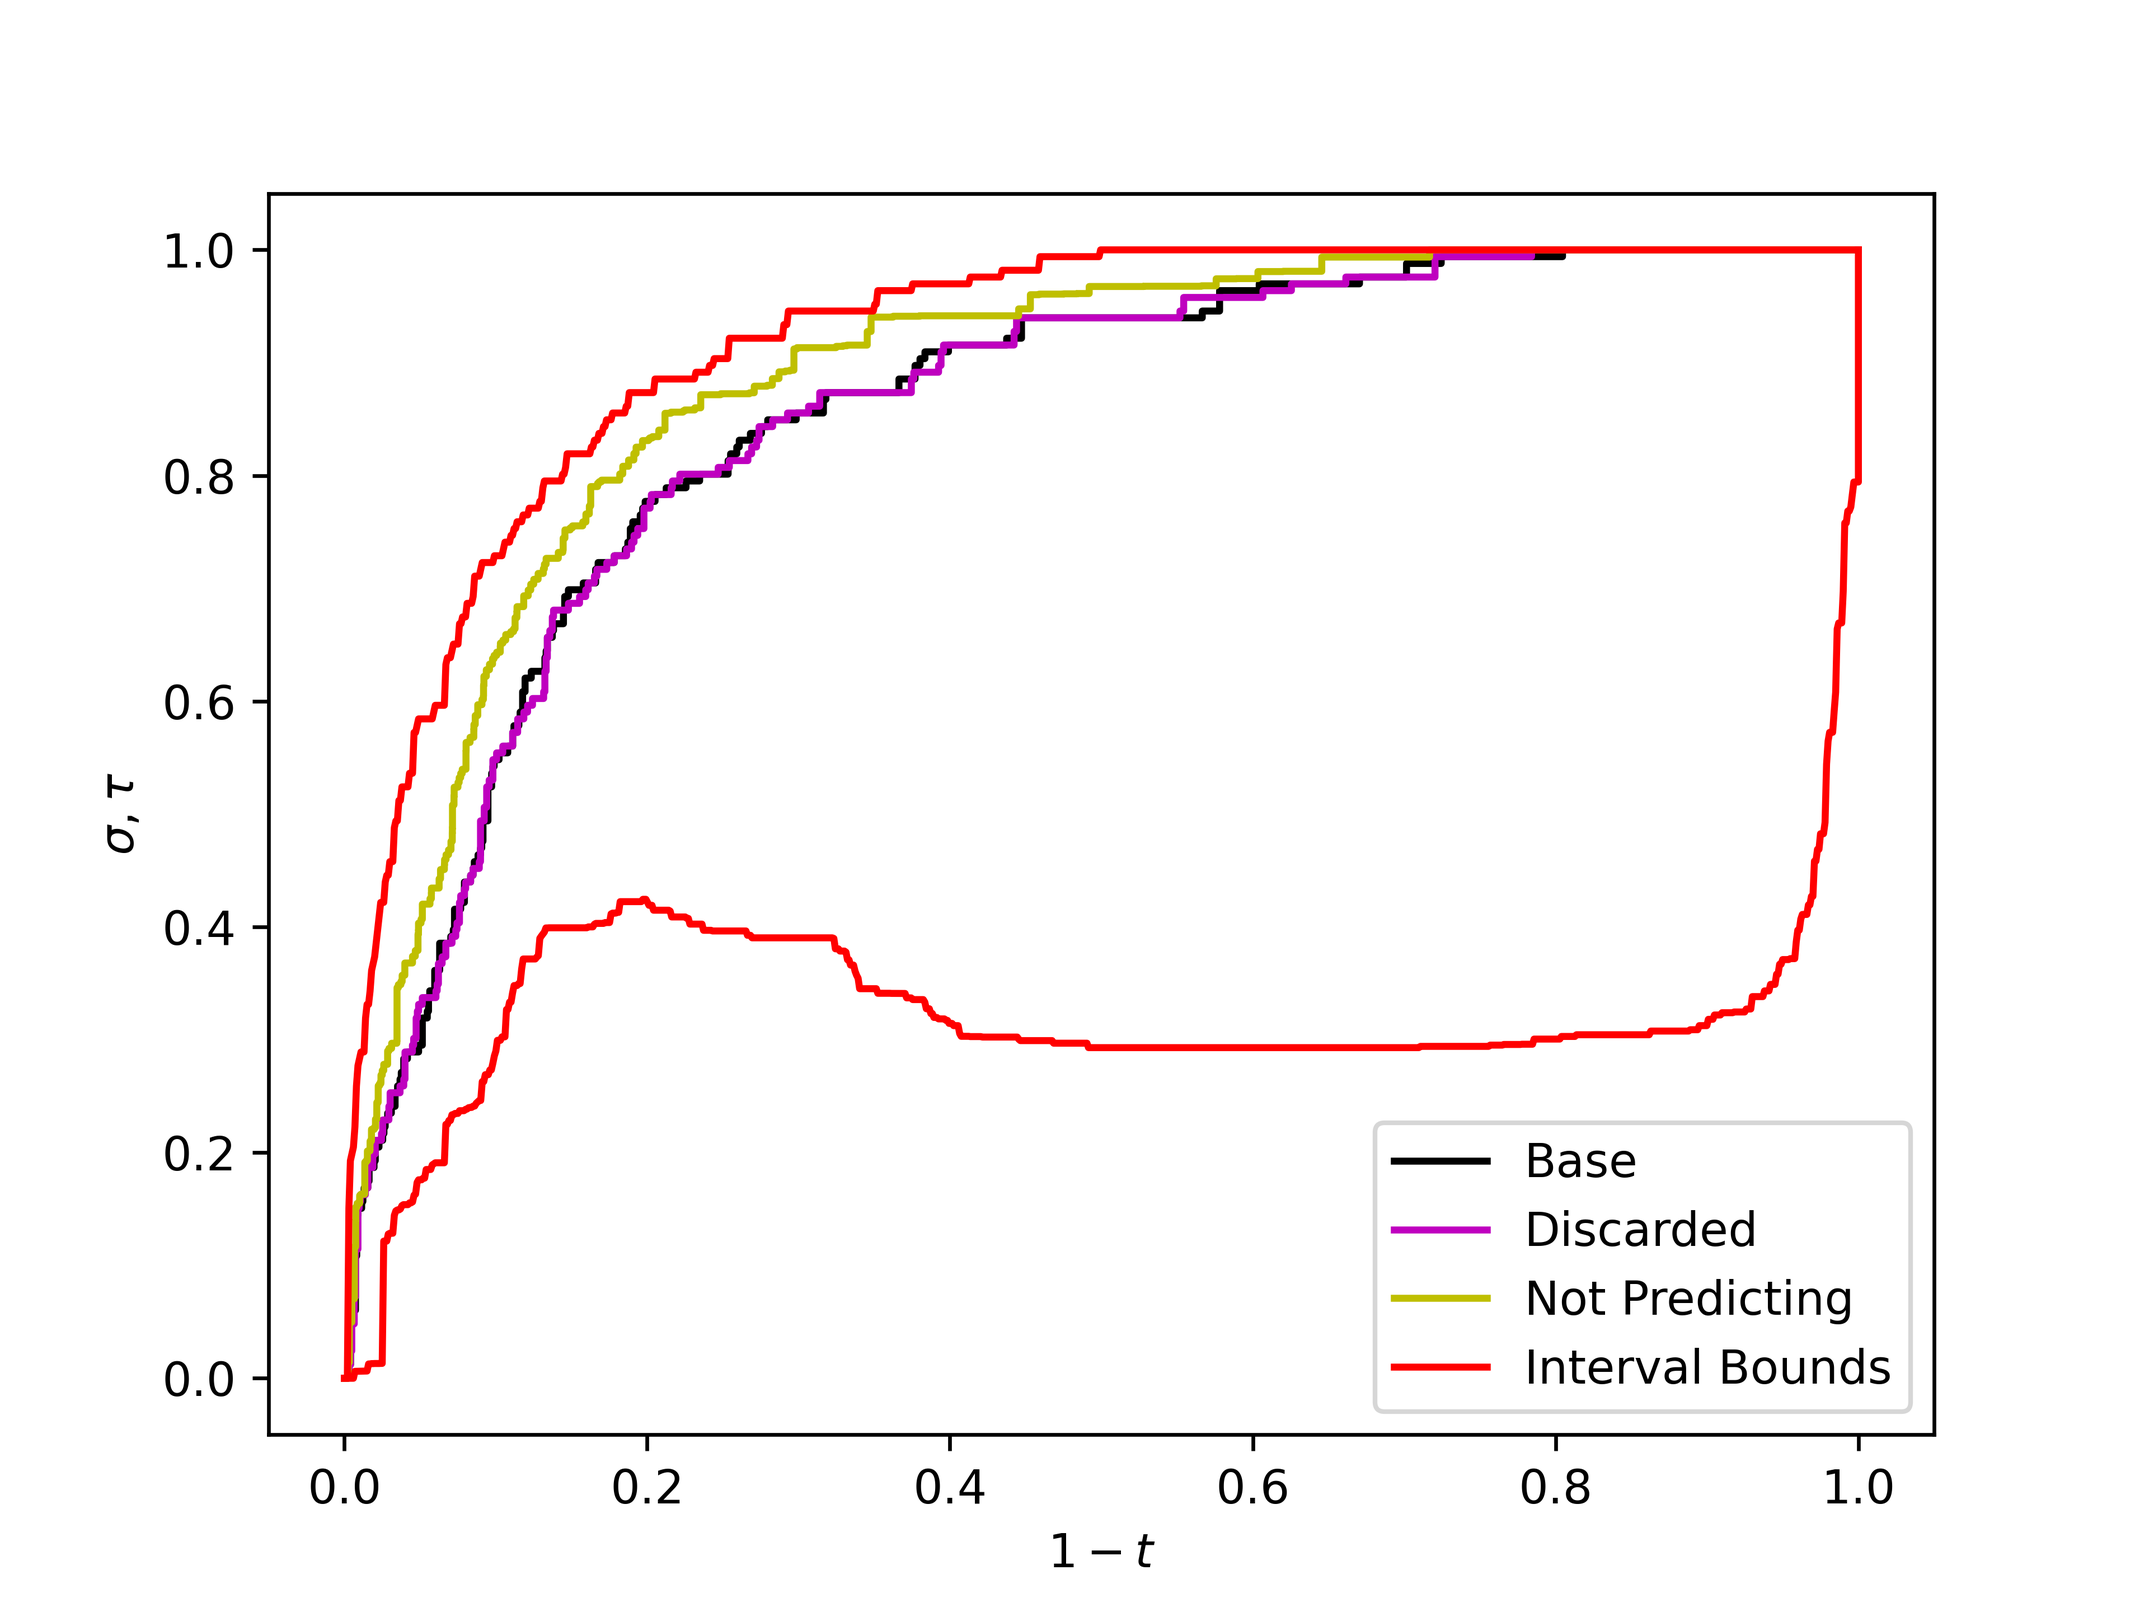
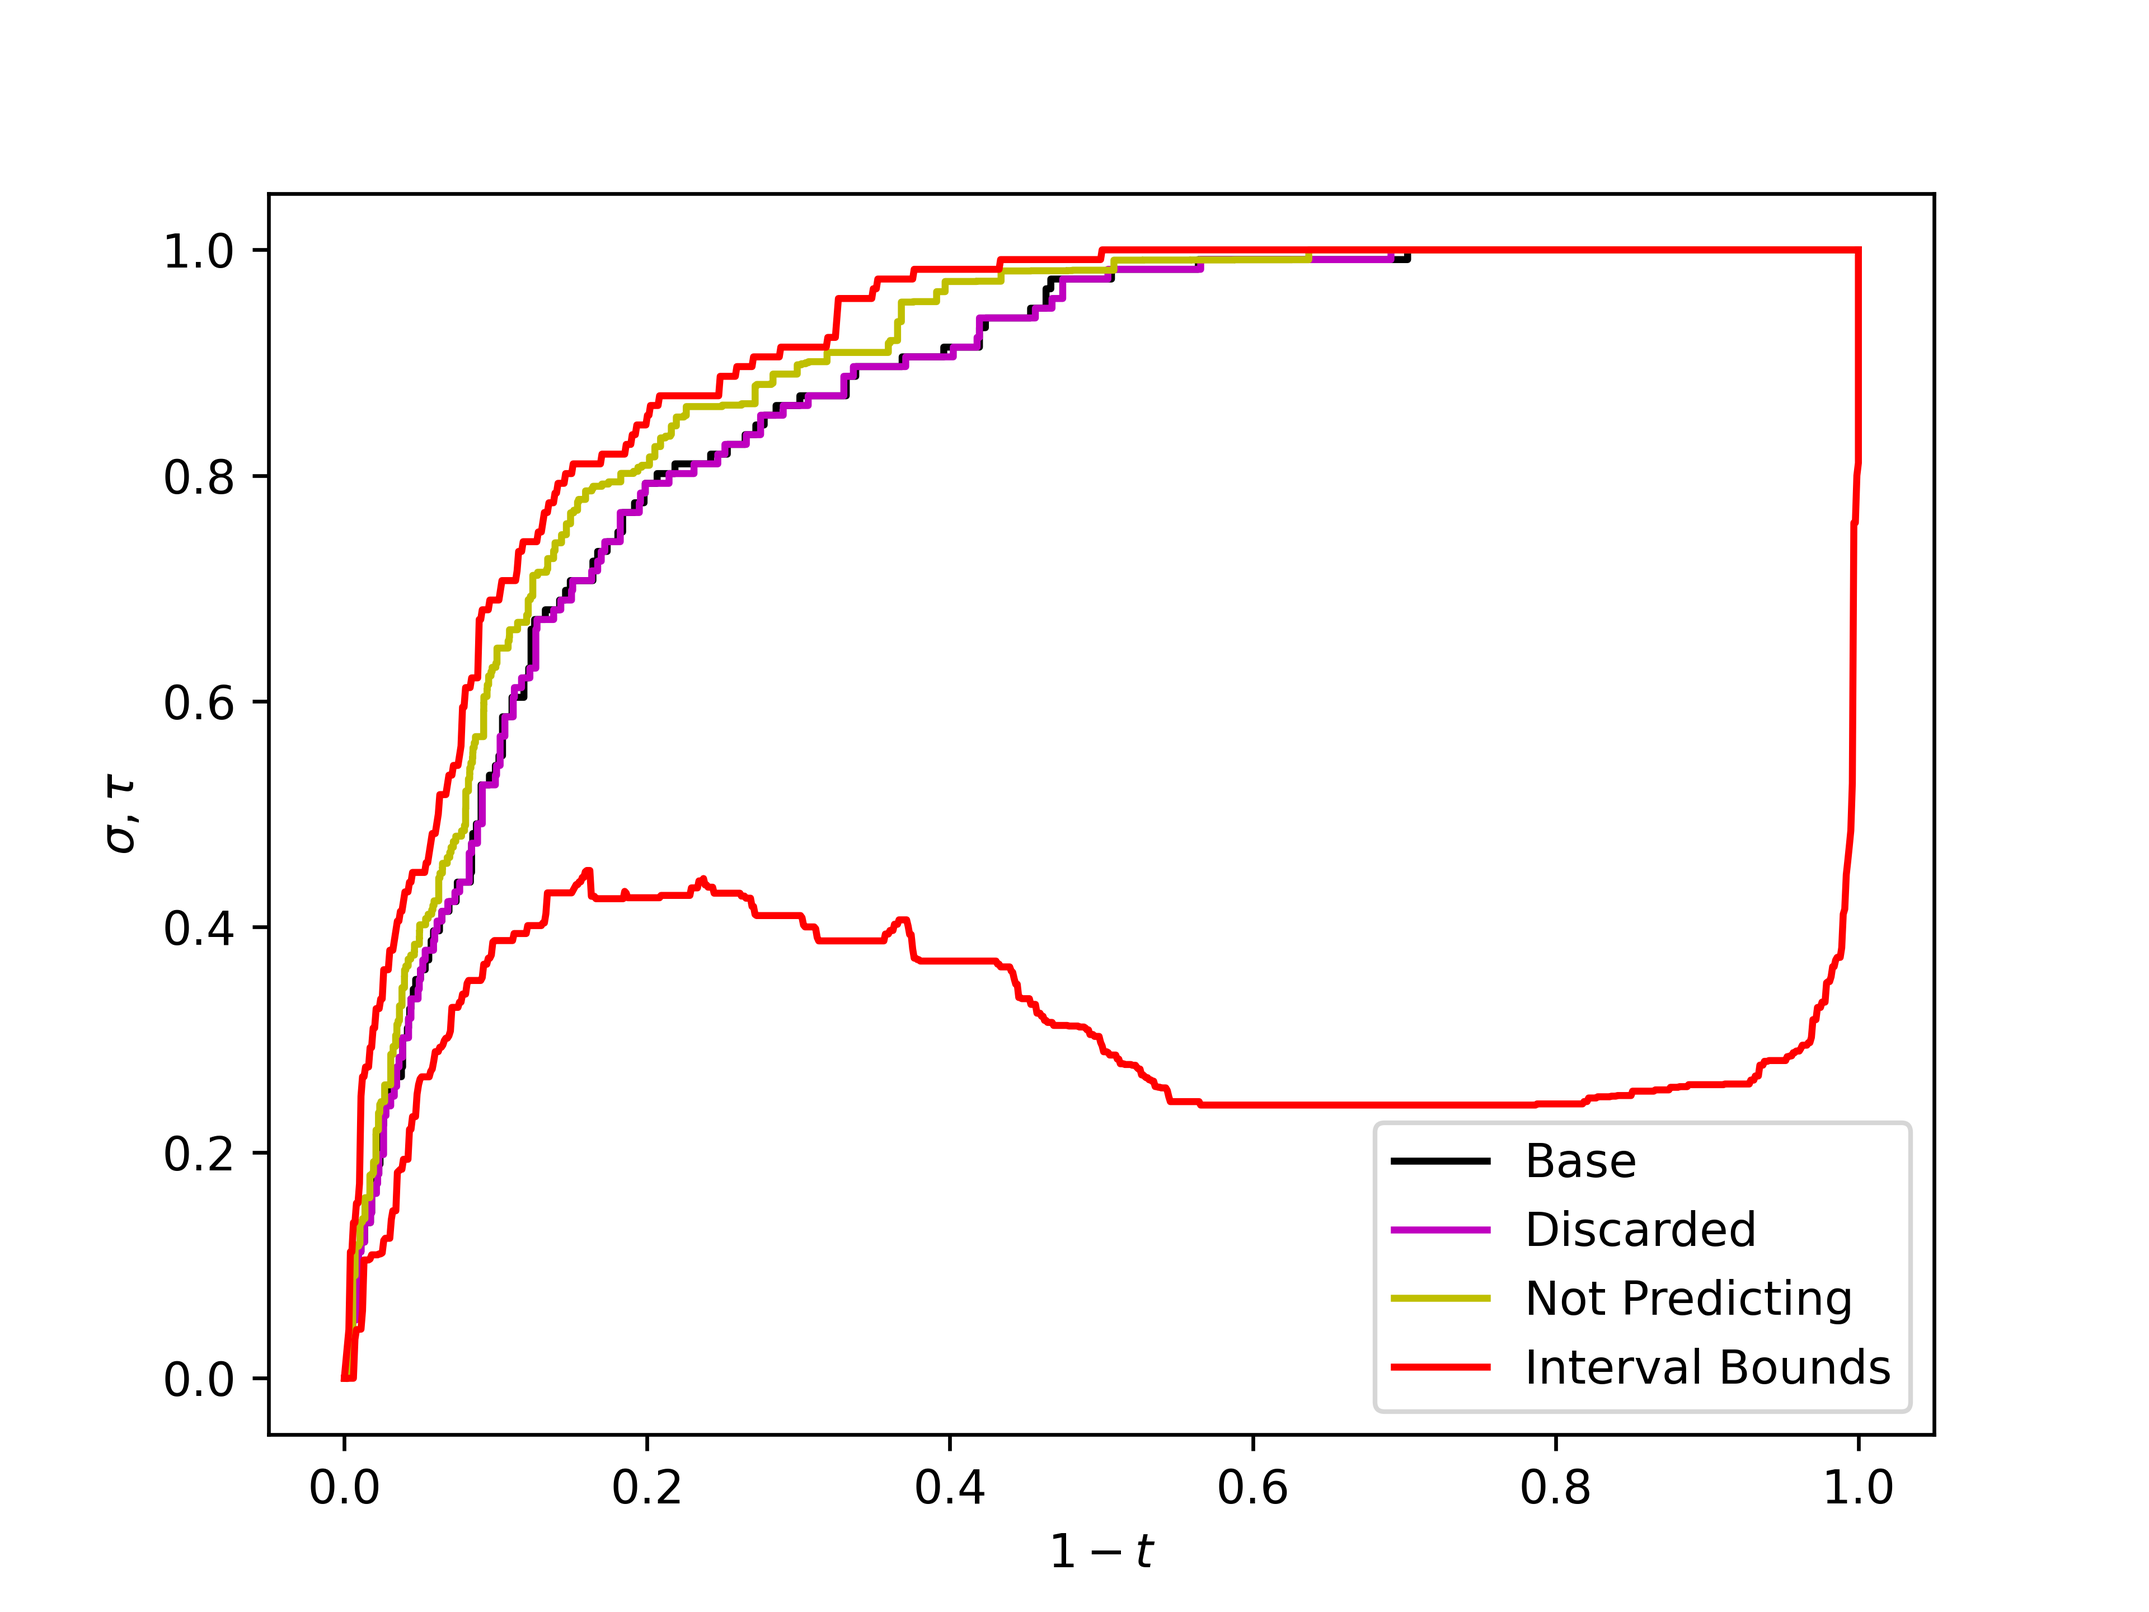
22FEB.02

Changed region(s): [[0.1562, 0.1562, 0.875, 0.875]]

diff --git a/redwine.py b/redwine.py
@@ -115,83 +115,83 @@ with open('runinfo/redwine_cm.out','w') as f:
     print('Specificity = %.3f' %(ttt),file = f)
 
 ### ROC CURVE
-# s,fpr = ROC(model = base, data = test_data, results = test_results)
-# nuq_s,nuq_fpr = ROC(model = nuq, data = test_data, results = test_results)
-# s_t, fpr_t, Sigma, Tau, Nu = UQ_ROC_alt(uq_models, test_data, test_results)
+s,fpr = ROC(model = base, data = test_data, results = test_results)
+nuq_s,nuq_fpr = ROC(model = nuq, data = test_data, results = test_results)
+s_t, fpr_t, Sigma, Tau, Nu = UQ_ROC_alt(uq_models, test_data, test_results)
 
-# s_i, fpr_i = UQ_ROC(uq_models, test_data, test_results)
+s_i, fpr_i = UQ_ROC(uq_models, test_data, test_results)
 
-# steps = 1000
-# X = np.linspace(0,1,steps)
-# Ymin = steps*[2]
-# Ymax = steps*[-1]
+steps = 1000
+X = np.linspace(0,1,steps)
+Ymin = steps*[2]
+Ymax = steps*[-1]
 
-# for i, x in tqdm(enumerate(X)):
-#     for k,j in zip(s_i,fpr_i):
+for i, x in tqdm(enumerate(X)):
+    for k,j in zip(s_i,fpr_i):
 
-#         if j.straddles(x,endpoints = True):
-#             Ymin[i] = min((Ymin[i],k.Left))
-#             Ymax[i] = max((Ymax[i],k.Right))
+        if j.straddles(x,endpoints = True):
+            Ymin[i] = min((Ymin[i],k.Left))
+            Ymax[i] = max((Ymax[i],k.Right))
 
-# Xmax = [0]+[x for i,x in enumerate(X) if Ymax[i] != -1]+[1]
-# Xmin = [0]+[x for i,x in enumerate(X) if Ymin[i] != 2]+[1]
-# Ymax = [0]+[y for i,y in enumerate(Ymax) if Ymax[i] != -1]+[1]
-# Ymin = [0]+[y for i,y in enumerate(Ymin) if Ymin[i] != 2]+[1]
+Xmax = [0]+[x for i,x in enumerate(X) if Ymax[i] != -1]+[1]
+Xmin = [0]+[x for i,x in enumerate(X) if Ymin[i] != 2]+[1]
+Ymax = [0]+[y for i,y in enumerate(Ymax) if Ymax[i] != -1]+[1]
+Ymin = [0]+[y for i,y in enumerate(Ymin) if Ymin[i] != 2]+[1]
 
-# auc_int_min = sum([(Xmin[i]-Xmin[i-1])*Ymin[i] for i in range(1,len(Xmin))])
-# auc_int_max = sum([(Xmax[i]-Xmax[i-1])*Ymax[i] for i in range(1,len(Xmin))])
+auc_int_min = sum([(Xmin[i]-Xmin[i-1])*Ymin[i] for i in range(1,len(Xmin))])
+auc_int_max = sum([(Xmax[i]-Xmax[i-1])*Ymax[i] for i in range(1,len(Xmin))])
    
-# plt.xlabel('$1-t$')
-# plt.ylabel('$s$')
-# plt.ylabel('$\\sigma,\\tau$')
+plt.xlabel('$1-t$')
+plt.ylabel('$s$')
+plt.ylabel('$\\sigma,\\tau$')
 
-# plt.step(fpr,s,'k', label = 'Base')
-# plt.step(nuq_fpr,nuq_s,'m', label = 'Discarded')
-# plt.step(fpr_t,s_t,'y', label = 'Not Predicting')
-# plt.plot(Xmax,Ymax,'r',label = 'Interval Bounds')
-# plt.plot(Xmin,Ymin,'r')
+plt.step(fpr,s,'k', label = 'Base')
+plt.step(nuq_fpr,nuq_s,'m', label = 'Discarded')
+plt.step(fpr_t,s_t,'y', label = 'Not Predicting')
+plt.plot(Xmax,Ymax,'r',label = 'Interval Bounds')
+plt.plot(Xmin,Ymin,'r')
 
-# plt.legend()
+plt.legend()
 
-# plt.savefig('figs/redwine_ROC.png',dpi = 600)
-# plt.savefig('../paper/figs/redwine_ROC.png',dpi = 600)
-# # plt.clf()
+plt.savefig('figs/redwine_ROC.png',dpi = 600)
+plt.savefig('../paper/figs/redwine_ROC.png',dpi = 600)
+# plt.clf()
 
 
-# with open('runinfo/redwine_auc.out','w') as f:
-#     print('TRUTH: %.3f' %auc(s,fpr), file = f)
-#     print('No UQ: %.3F' %auc(nuq_s,nuq_fpr),file = f)
-#     print('THROW: %.3f' %auc(s_t,fpr_t), file = f)
-#     print('INTERVALS: [%.3f,%.3f]' %(auc_int_min,auc_int_max), file = f)
+with open('runinfo/redwine_auc.out','w') as f:
+    print('TRUTH: %.3f' %auc(s,fpr), file = f)
+    print('No UQ: %.3F' %auc(nuq_s,nuq_fpr),file = f)
+    print('THROW: %.3f' %auc(s_t,fpr_t), file = f)
+    print('INTERVALS: [%.3f,%.3f]' %(auc_int_min,auc_int_max), file = f)
     
 
-# fig = plt.figure()
+fig = plt.figure()
 
-# ax = plt.axes(projection='3d',elev = 45,azim = -45,proj_type = 'ortho')
-# ax.set_xlabel('$1-t$')
-# ax.set_ylabel('$s$')
-# # ax.set_zlabel('$1-\sigma,1-\\tau$')
-# ax.plot(fpr_t,s_t,'m',alpha = 0.5)
-# ax.plot3D(fpr,s,Sigma,'b',label = '$\\sigma$')
-# ax.plot3D(fpr,s,Tau,'r',label = '$\\tau$')
-# # ax.plot3D(fpr,s,Nu,'k',label = '$1-\\nu$')
+ax = plt.axes(projection='3d',elev = 45,azim = -45,proj_type = 'ortho')
+ax.set_xlabel('$1-t$')
+ax.set_ylabel('$s$')
+# ax.set_zlabel('$1-\sigma,1-\\tau$')
+ax.plot(fpr_t,s_t,'m',alpha = 0.5)
+ax.plot3D(fpr,s,Sigma,'b',label = '$\\sigma$')
+ax.plot3D(fpr,s,Tau,'r',label = '$\\tau$')
+# ax.plot3D(fpr,s,Nu,'k',label = '$1-\\nu$')
 
-# ax.legend()
+ax.legend()
 
-# plt.savefig('figs/redwine_ROC3D.png',dpi = 600)
-# plt.savefig('../paper/figs/redwine_ROC3D.png',dpi = 600)
-# plt.clf()
+plt.savefig('figs/redwine_ROC3D.png',dpi = 600)
+plt.savefig('../paper/figs/redwine_ROC3D.png',dpi = 600)
+plt.clf()
 
-# plt.xlabel('$(1-t)$/$s$')
-# plt.ylabel('$\\sigma$/$\\tau$')
-# plt.plot(s,Sigma,'g',label = '$\\sigma$ v $s$')
-# plt.plot(fpr,Tau,'r',label = '$\\tau$ v $t$')
-# plt.legend()
+plt.xlabel('$(1-t)$/$s$')
+plt.ylabel('$\\sigma$/$\\tau$')
+plt.plot(s,Sigma,'g',label = '$\\sigma$ v $s$')
+plt.plot(fpr,Tau,'r',label = '$\\tau$ v $t$')
+plt.legend()
 
-# plt.savefig('figs/redwine_ST.png',dpi = 600)
-# plt.savefig('../paper/figs/redwine_ST.png',dpi = 600)
+plt.savefig('figs/redwine_ST.png',dpi = 600)
+plt.savefig('../paper/figs/redwine_ST.png',dpi = 600)
 
-# plt.clf()
+plt.clf()
 
 ### Hosmer-Lemeshow
 hl_b, pval_b = hosmer_lemeshow_test(base,train_data,train_results,g = 10)
@@ -199,11 +199,9 @@ hl_b, pval_b = hosmer_lemeshow_test(base,train_data,train_results,g = 10)
 hl_nuq, pval_nuq = hosmer_lemeshow_test(nuq,train_data,train_results,g = 10)
 
 hl_uq, pval_uq = UQ_hosmer_lemeshow_test(uq_models,train_data,train_results,g = 10)
-bounds = zip([(hosmer_lemeshow_test(m,train_data,train_results,g = 10)) for k,m in uq_models.items()])
-          
+
 with open('runinfo/redwine_HL.out','w') as f:
     print('base\nhl = %.3f, p = %.3f' %(hl_b,pval_b),file = f)
     print('no UQ\nhl = %.3f, p = %.3f' %(hl_nuq,pval_nuq),file = f) 
     print('UQ\nhl = [%.3f,%.3f], p = [%.3f,%.3f]' %(*hl_uq,*pval_uq),file = f)
-    print('UQ2\nhl = [%.3f,%.3f], p = [%.3f,%.3f]' %(min(bounds[0]),max(bounds[0]),min(bounds[1]),max(bounds[1])),file = f)
     

diff --git a/whitewine.py b/whitewine.py
@@ -161,86 +161,86 @@ with open('runinfo/whitewine_cm.out','w') as f:
     print('Specificity = %.3f' %(ttt),file = f)
 
 
-# ### ROC CURVE
-# s,fpr = ROC(model = base, data = test_data, results = test_results)
-# nuq_s,nuq_fpr = ROC(model = nuq, data = test_data, results = test_results)
-# s_t, fpr_t, Sigma, Tau, Nu = UQ_ROC_alt(uq_models, test_data, test_results)
+### ROC CURVE
+s,fpr = ROC(model = base, data = test_data, results = test_results)
+nuq_s,nuq_fpr = ROC(model = nuq, data = test_data, results = test_results)
+s_t, fpr_t, Sigma, Tau, Nu = UQ_ROC_alt(uq_models, test_data, test_results)
 
-# s_i, fpr_i = UQ_ROC(uq_models, test_data, test_results)
+s_i, fpr_i = UQ_ROC(uq_models, test_data, test_results)
 
-# steps = 1000
-# X = np.linspace(0,1,steps)
-# Ymin = steps*[2]
-# Ymax = steps*[-1]
+steps = 1000
+X = np.linspace(0,1,steps)
+Ymin = steps*[2]
+Ymax = steps*[-1]
 
-# for i, x in tqdm(enumerate(X)):
-#     for k,j in zip(s_i,fpr_i):
+for i, x in tqdm(enumerate(X)):
+    for k,j in zip(s_i,fpr_i):
 
-#         if j.straddles(x,endpoints = True):
-#             Ymin[i] = min((Ymin[i],k.Left))
-#             Ymax[i] = max((Ymax[i],k.Right))
+        if j.straddles(x,endpoints = True):
+            Ymin[i] = min((Ymin[i],k.Left))
+            Ymax[i] = max((Ymax[i],k.Right))
 
-# Xmax = [0]+[x for i,x in enumerate(X) if Ymax[i] != -1]+[1]
-# Xmin = [0]+[x for i,x in enumerate(X) if Ymin[i] != 2]+[1]
-# Ymax = [0]+[y for i,y in enumerate(Ymax) if Ymax[i] != -1]+[1]
-# Ymin = [0]+[y for i,y in enumerate(Ymin) if Ymin[i] != 2]+[1]
+Xmax = [0]+[x for i,x in enumerate(X) if Ymax[i] != -1]+[1]
+Xmin = [0]+[x for i,x in enumerate(X) if Ymin[i] != 2]+[1]
+Ymax = [0]+[y for i,y in enumerate(Ymax) if Ymax[i] != -1]+[1]
+Ymin = [0]+[y for i,y in enumerate(Ymin) if Ymin[i] != 2]+[1]
 
-# auc_int_min = sum([(Xmin[i]-Xmin[i-1])*Ymin[i] for i in range(1,len(Xmin))])
-# auc_int_max = sum([(Xmax[i]-Xmax[i-1])*Ymax[i] for i in range(1,len(Xmin))])
+auc_int_min = sum([(Xmin[i]-Xmin[i-1])*Ymin[i] for i in range(1,len(Xmin))])
+auc_int_max = sum([(Xmax[i]-Xmax[i-1])*Ymax[i] for i in range(1,len(Xmin))])
    
-# plt.xlabel('$1-t$')
-# plt.ylabel('$s$')
-# plt.ylabel('$\\sigma,\\tau$')
+plt.xlabel('$1-t$')
+plt.ylabel('$s$')
+plt.ylabel('$\\sigma,\\tau$')
 
-# plt.step(fpr,s,'k', label = 'Base')
-# plt.step(nuq_fpr,nuq_s,'m--', label = 'Discarded')
-# plt.step(fpr_t,s_t,'y', label = 'Not Predicting')
-# plt.plot(Xmax,Ymax,'r',label = 'Interval Bounds')
-# plt.plot(Xmin,Ymin,'r')
+plt.step(fpr,s,'k', label = 'Base')
+plt.step(nuq_fpr,nuq_s,'m--', label = 'Discarded')
+plt.step(fpr_t,s_t,'y', label = 'Not Predicting')
+plt.plot(Xmax,Ymax,'r',label = 'Interval Bounds')
+plt.plot(Xmin,Ymin,'r')
 
-# plt.legend()
+plt.legend()
 
-# plt.savefig('figs/whitewine_ROC.png',dpi = 600)
-# plt.savefig('../paper/figs/whitewine_ROC.png',dpi = 600)
-# # plt.clf()
+plt.savefig('figs/whitewine_ROC.png',dpi = 600)
+plt.savefig('../paper/figs/whitewine_ROC.png',dpi = 600)
+# plt.clf()
 
-# # for i,j in zip(fpr_i,s_i):
-# #     plt.plot([i.Left,i.Right],[j.Left,j.Right])
-# # plt.show()
-# with open('runinfo/whitewine_auc.out','w') as f:
-#     print('NO UNCERTAINTY: %.4f' %auc(s,fpr), file = f)
-#     print('DISCARDED: %.4F' %auc(nuq_s,nuq_fpr),file = f)
-#     print('THROW: %.4f' %auc(s_t,fpr_t), file = f)
-#     print('INTERVALS: [%.4f,%.4f]' %(auc_int_min,auc_int_max), file = f)
+# for i,j in zip(fpr_i,s_i):
+#     plt.plot([i.Left,i.Right],[j.Left,j.Right])
+# plt.show()
+with open('runinfo/whitewine_auc.out','w') as f:
+    print('NO UNCERTAINTY: %.4f' %auc(s,fpr), file = f)
+    print('DISCARDED: %.4F' %auc(nuq_s,nuq_fpr),file = f)
+    print('THROW: %.4f' %auc(s_t,fpr_t), file = f)
+    print('INTERVALS: [%.4f,%.4f]' %(auc_int_min,auc_int_max), file = f)
     
 
-# fig = plt.figure()
+fig = plt.figure()
 
-# ax = plt.axes(projection='3d',elev = 45,azim = -45,proj_type = 'ortho')
-# ax.set_xlabel('$1-t$')
-# ax.set_ylabel('$s$')
-# # ax.set_zlabel('$1-\sigma,1-\\tau$')
-# ax.plot(fpr_t,s_t,'m',alpha = 0.5)
-# ax.plot3D(fpr,s,Sigma,'b',label = '$\\sigma$')
-# ax.plot3D(fpr,s,Tau,'r',label = '$\\tau$')
-# # ax.plot3D(fpr,s,Nu,'k',label = '$1-\\nu$')
+ax = plt.axes(projection='3d',elev = 45,azim = -45,proj_type = 'ortho')
+ax.set_xlabel('$1-t$')
+ax.set_ylabel('$s$')
+# ax.set_zlabel('$1-\sigma,1-\\tau$')
+ax.plot(fpr_t,s_t,'m',alpha = 0.5)
+ax.plot3D(fpr,s,Sigma,'b',label = '$\\sigma$')
+ax.plot3D(fpr,s,Tau,'r',label = '$\\tau$')
+# ax.plot3D(fpr,s,Nu,'k',label = '$1-\\nu$')
 
-# ax.legend()
+ax.legend()
 
-# plt.savefig('figs/whitewine_ROC3D.png',dpi = 600)
-# plt.savefig('../paper/figs/whitewine_ROC3D.png',dpi = 600)
-# plt.clf()
+plt.savefig('figs/whitewine_ROC3D.png',dpi = 600)
+plt.savefig('../paper/figs/whitewine_ROC3D.png',dpi = 600)
+plt.clf()
 
-# plt.xlabel('$(1-t)$/$s$')
-# plt.ylabel('$\\sigma$/$\\tau$')
-# plt.plot(s,Sigma,'g',label = '$\\sigma$ v $s$')
-# plt.plot(fpr,Tau,'r',label = '$\\tau$ v $t$')
-# plt.legend()
+plt.xlabel('$(1-t)$/$s$')
+plt.ylabel('$\\sigma$/$\\tau$')
+plt.plot(s,Sigma,'g',label = '$\\sigma$ v $s$')
+plt.plot(fpr,Tau,'r',label = '$\\tau$ v $t$')
+plt.legend()
 
-# plt.savefig('figs/whitewine_ST.png',dpi = 600)
-# plt.savefig('../paper/figs/whitewine_ST.png',dpi = 600)
+plt.savefig('figs/whitewine_ST.png',dpi = 600)
+plt.savefig('../paper/figs/whitewine_ST.png',dpi = 600)
 
-# plt.clf()
+plt.clf()
 
 ### Hosmer-Lemeshow
 hl_b, pval_b = hosmer_lemeshow_test(base,train_data,train_results,g = 10)

diff --git a/LRF.py b/LRF.py
@@ -455,26 +455,22 @@ def UQ_hosmer_lemeshow_test(models, data, results, g=10):
             'observed_n_cases': len(idx) - sum(results.loc[idx]),
             'expected_n_cases': sum(probs.loc[idx,0])
         }
-
+    # print(buckets)
     hl = 0
     for i in range(g):
-
-        a = buckets[i]['observed_cases']/(buckets[i]['expected_cases']**.5)
-        b = buckets[i]['expected_cases']**.5
-        c = pba.I(a.Left - b.Right, a.Right - b.Left)**2
         
-        d = buckets[i]['observed_n_cases']/(buckets[i]['expected_n_cases']**.5)
-        e = buckets[i]['expected_n_cases']**.5
-        f = pba.I(d.Left - e.Right, d.Right - e.Left)**2
-
-        if c.straddles_zero(endpoints=True):
-            c2 = pba.I((a.Left - b.Right)**2, (a.Right - b.Left)**2)
-            f2 = pba.I((d.Left - e.Right)**2, (d.Right - e.Left)**2)
+        cl = ((buckets[i]['observed_cases'] - buckets[i]['expected_cases'].Left)**2)/buckets[i]['expected_cases'].Left
+        cr = ((buckets[i]['observed_cases'] - buckets[i]['expected_cases'].Right)**2)/buckets[i]['expected_cases'].Right
+        
+        nl = ((buckets[i]['observed_n_cases'] - buckets[i]['expected_n_cases'].Left)**2)/buckets[i]['expected_n_cases'].Left
+        nr = ((buckets[i]['observed_n_cases'] - buckets[i]['expected_n_cases'].Right)**2)/buckets[i]['expected_n_cases'].Right
             
-                        
-            hl += pba.I(0, c2+f2)
+        if pba.always(buckets[i]['observed_cases'] - buckets[i]['expected_cases'] != 0):
+            hl += pba.I(cl+nr,cr+nl)
         else:
-            hl += c.oadd(f)
+            hl += pba.I(0,pba.I(cl+nr,cr+nl))
+            
+            
 
     pval = pba.I(1-chi2.cdf(hl.Left,g-2),1-chi2.cdf(hl.Right,g-2))
     

diff --git a/ex1_UC.py b/ex1_UC.py
@@ -256,5 +256,4 @@ with open('runinfo/ex1_UC_HL.out','w') as f:
     print('base\nhl = %.3f, p = %.3f' %(hl_b,pval_b),file = f)
     print('no UQ\nhl = %.3f, p = %.3f' %(hl_nuq,pval_nuq),file = f) 
 
-    # print('UQ\nhl = [%.3f,%.3f], p = [%.3f,%.3f]' %(hl_min,hl_max,pval_min,pval_max),file = f) 
     print('UQ\nhl = [%.3f,%.3f], p = [%.3f,%.3f]' %(*hl_uq,*pval_uq),file = f) 
